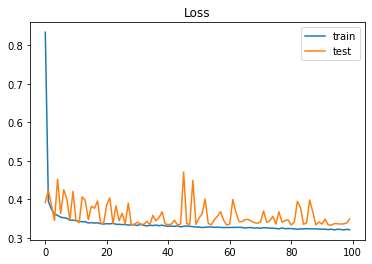
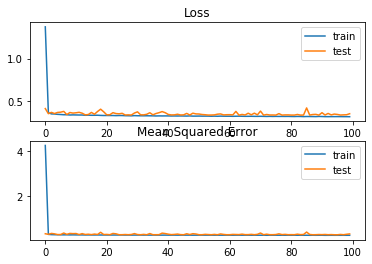
new plots, new network, new code

diff --git a/ANN/ANN.py b/ANN/ANN.py
@@ -82,7 +82,7 @@ plt.legend()
 plt.show()
 
 
-###############################################################################################################################
+###############################################################################################
 
 #initializing the ANN
 model = Sequential()
@@ -98,7 +98,7 @@ model.add(Dense(activation="relu" , input_dim=20, units=20, kernel_initializer="
 model.add(Dense(activation="linear", input_dim=20, units=1, kernel_initializer="he_uniform"))
 
 #compiling the ANN
-model.compile(optimizer = "sgd" , loss="mean_squared_error")
+model.compile(optimizer = "sgd" , loss="mean_squared_error", metrics=["mse"])
 
 # fit model
 history2 = model.fit(X_train, y_train, validation_data=(X_test, y_test), epochs=100, verbose=0)
@@ -108,13 +108,20 @@ train_mse_model = model.evaluate(X_train, y_train, verbose=0)
 test_mse_model = model.evaluate(X_test, y_test, verbose=0)
 
 # plot loss during training
-plt.title('Loss / Mean Squared Error')
+plt.subplot(211)
+plt.title('Loss')
 plt.plot(history2.history['loss'], label='train')
 plt.plot(history2.history['val_loss'], label='test')
 plt.legend()
+# plot mse during training
+plt.subplot(212)
+plt.title('Mean Squared Error')
+plt.plot(history2.history['mse'], label='train')
+plt.plot(history2.history['val_mse'], label='test')
+plt.legend()
 plt.show()
 
-#######################################################################################################################################
+###############################################################################################
 
 #initializing the ANN
 model2 = Sequential()
@@ -144,16 +151,22 @@ train_mse_model2 = model2.evaluate(X_train, y_train, verbose=0)
 test_mse_model2 = model2.evaluate(X_test, y_test, verbose=0)
 
 # plot loss during training
+plt.subplot(211)
 plt.title('Loss')
 plt.plot(history3.history['loss'], label='train')
 plt.plot(history3.history['val_loss'], label='test')
 plt.legend()
+# plot mse during training
+plt.subplot(212)
+plt.title('Mean Squared Error')
+plt.plot(history3.history['mse'], label='train')
+plt.plot(history3.history['val_mse'], label='test')
+plt.legend()
 plt.show()
 
-neural.save("ann_model")
-
-
-
+##############################################################################################
+neural.save("neural_network.h5")
+print("Saved model to disk")
 
 
 
